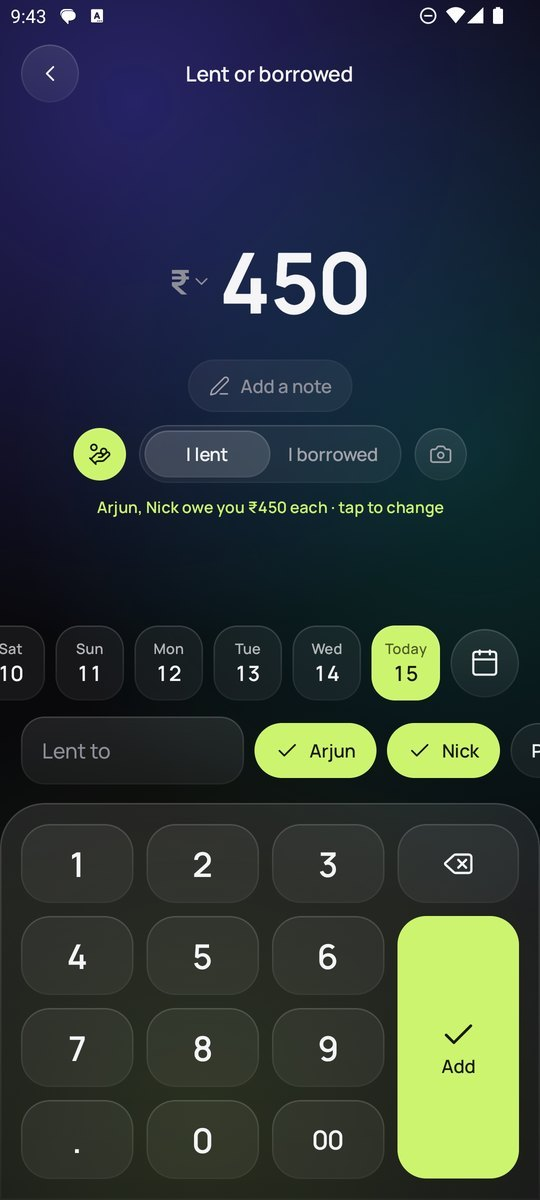
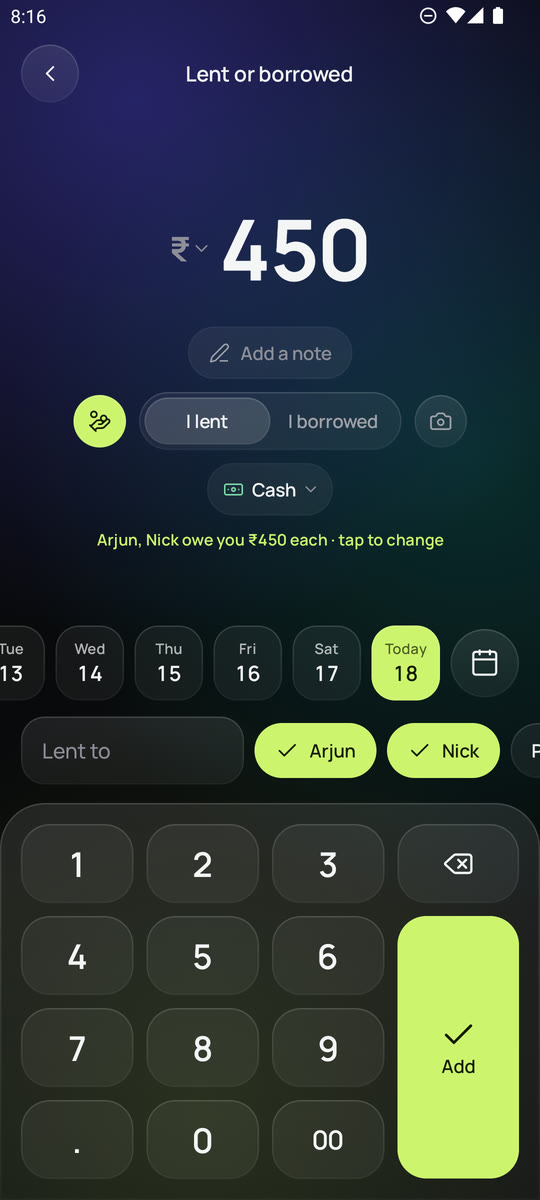
Website: screens follow the page's light or dark theme, in a highlights reel that plays by itself
New light and dark screenshots of the current app, the same screens and data in both. The reel shows one large slide at a time, moves on every 5 seconds with the active dot filling, pauses when you swipe or use the keys, plays only on screen and never with reduced motion, and has play, pause and replay.

diff --git a/website/index.html b/website/index.html
@@ -101,25 +101,74 @@
       </div>
     </section>
 
-    <section class="screens" id="screens" aria-labelledby="screens-title">
+    <section class="screens" id="screens" aria-labelledby="screens-title" aria-roledescription="carousel">
       <div class="section-head">
-        <h2 id="screens-title">Everything in four tabs</h2>
-        <div class="gallery-nav">
-          <button class="icon-btn" type="button" id="prev" aria-label="Previous screen"><svg viewBox="0 0 24 24" aria-hidden="true"><path d="m15 18-6-6 6-6"/></svg></button>
-          <button class="icon-btn" type="button" id="next" aria-label="Next screen"><svg viewBox="0 0 24 24" aria-hidden="true"><path d="m9 18 6-6-6-6"/></svg></button>
-        </div>
+        <h2 id="screens-title">Take a look around</h2>
       </div>
-      <ol class="gallery" id="gallery" tabindex="0" aria-label="Screens from the app">
-        <li><img src="assets/home.jpg" alt="Home: safe to spend today, total balance, detected payments and upcoming bills" loading="lazy" width="1080" height="2400"><p><b>Home.</b> Today's number, your balance across accounts, payments spotted for you and the bills coming up.</p></li>
-        <li><img src="assets/add.jpg" alt="Add: a keypad with categories and a date strip" loading="lazy" width="1080" height="2400"><p><b>Add.</b> The keypad opens first. Two taps and it's logged, on any day you forgot.</p></li>
-        <li><img src="assets/insights.jpg" alt="Insights: daily spending bars and comparison with last month" loading="lazy" width="1080" height="2400"><p><b>Insights.</b> Touch any day's bar, see where the month is heading and what changed since last month.</p></li>
-        <li><img src="assets/plan.jpg" alt="Plan: budget gauge, subscriptions and savings goals" loading="lazy" width="1080" height="2400"><p><b>Plan.</b> Your budget, the subscriptions it already knows about, and what to save each month for a goal.</p></li>
-        <li><img src="assets/calendar.jpg" alt="Activity calendar showing each day's spending" loading="lazy" width="1080" height="2400"><p><b>Activity.</b> A calendar of every day's spending. Tap a day to see or add to it.</p></li>
-        <li><img src="assets/filters.jpg" alt="Filters for account, category and tags" loading="lazy" width="1080" height="2400"><p><b>Search.</b> Find anything by note, amount, account, category or #tag, with a total.</p></li>
-        <li><img src="assets/lent-borrowed.jpg" alt="Lent or borrowed: an amount split between friends" loading="lazy" width="1080" height="2400"><p><b>Split a bill.</b> Your share is your spending; what each friend owes goes to Money owed.</p></li>
-        <li><img src="assets/money-owed.jpg" alt="Money owed: balances per person" loading="lazy" width="1080" height="2400"><p><b>Money owed.</b> Who owes you and whom you owe, paid back in full or a bit at a time.</p></li>
-        <li><img src="assets/assistant.jpg" alt="AI assistant chat proposing a change to confirm" loading="lazy" width="1080" height="2400"><p><b>Assistant.</b> Optional. Ask about your money or tell it what to log, with your own AI key.</p></li>
+      <ol class="track" id="track" tabindex="0" aria-label="Screens from the app">
+        <li class="slide" id="slide-0" aria-roledescription="slide" aria-label="1 of 9: Home">
+          <div class="slide-card glass">
+            <div class="slide-copy"><h3>Home</h3><p>Today's number first, then your balance across accounts, payments spotted for you and the bills coming up.</p></div>
+            <img class="shot" data-name="home" src="assets/home.jpg" alt="Home: safe to spend today, total balance, spending, income and upcoming bills" loading="eager" width="540" height="1200">
+          </div>
+        </li>
+        <li class="slide" id="slide-1" aria-roledescription="slide" aria-label="2 of 9: Add">
+          <div class="slide-card glass">
+            <div class="slide-copy"><h3>Add</h3><p>The keypad opens first. Two taps and a spend is logged, on any day you forgot.</p></div>
+            <img class="shot" data-name="add" src="assets/add.jpg" alt="Add: a keypad with categories and a date strip" loading="eager" width="540" height="1200">
+          </div>
+        </li>
+        <li class="slide" id="slide-2" aria-roledescription="slide" aria-label="3 of 9: Insights">
+          <div class="slide-card glass">
+            <div class="slide-copy"><h3>Insights</h3><p>Touch any day's bar, see where the month is heading and what changed since last month.</p></div>
+            <img class="shot" data-name="insights" src="assets/insights.jpg" alt="Insights: daily spending bars and comparison with last month" loading="lazy" width="540" height="1200">
+          </div>
+        </li>
+        <li class="slide" id="slide-3" aria-roledescription="slide" aria-label="4 of 9: Plan">
+          <div class="slide-card glass">
+            <div class="slide-copy"><h3>Plan</h3><p>Your budget, the subscriptions it already knows about, and what to save each month for a goal.</p></div>
+            <img class="shot" data-name="plan" src="assets/plan.jpg" alt="Plan: budget gauge, subscriptions and savings goals" loading="lazy" width="540" height="1200">
+          </div>
+        </li>
+        <li class="slide" id="slide-4" aria-roledescription="slide" aria-label="5 of 9: Activity">
+          <div class="slide-card glass">
+            <div class="slide-copy"><h3>Activity</h3><p>A calendar of every day's spending. Tap a day to see it, or to add something you forgot.</p></div>
+            <img class="shot" data-name="calendar" src="assets/calendar.jpg" alt="Activity calendar showing each day's spending" loading="lazy" width="540" height="1200">
+          </div>
+        </li>
+        <li class="slide" id="slide-5" aria-roledescription="slide" aria-label="6 of 9: Search and filters">
+          <div class="slide-card glass">
+            <div class="slide-copy"><h3>Search and filters</h3><p>Find anything by note, amount, account, category or #tag, with a total for what you found.</p></div>
+            <img class="shot" data-name="filters" src="assets/filters.jpg" alt="Filters for account, category and tags" loading="lazy" width="540" height="1200">
+          </div>
+        </li>
+        <li class="slide" id="slide-6" aria-roledescription="slide" aria-label="7 of 9: Split a bill">
+          <div class="slide-card glass">
+            <div class="slide-copy"><h3>Split a bill</h3><p>Your share is your spending. What each friend owes goes to Money owed, from the account you paid with.</p></div>
+            <img class="shot" data-name="lent-borrowed" src="assets/lent-borrowed.jpg" alt="Lent or borrowed: an amount split between friends" loading="lazy" width="540" height="1200">
+          </div>
+        </li>
+        <li class="slide" id="slide-7" aria-roledescription="slide" aria-label="8 of 9: Money owed">
+          <div class="slide-card glass">
+            <div class="slide-copy"><h3>Money owed</h3><p>Who owes you and whom you owe, paid back in full or a bit at a time.</p></div>
+            <img class="shot" data-name="money-owed" src="assets/money-owed.jpg" alt="Money owed: balances per person with Pay back" loading="lazy" width="540" height="1200">
+          </div>
+        </li>
+        <li class="slide" id="slide-8" aria-roledescription="slide" aria-label="9 of 9: Assistant">
+          <div class="slide-card glass">
+            <div class="slide-copy"><h3>Assistant</h3><p>Optional. Ask about your money or tell it what to log, with your own AI key. Nothing changes until you confirm.</p></div>
+            <img class="shot" data-name="assistant" src="assets/assistant.jpg" alt="The AI assistant" loading="lazy" width="540" height="1200">
+          </div>
+        </li>
       </ol>
+      <div class="player">
+        <div class="dots" id="dots" role="group" aria-label="Choose a screen"></div>
+        <button class="icon-btn play" id="play" type="button" aria-label="Pause">
+          <svg class="i-pause" viewBox="0 0 24 24" aria-hidden="true"><path d="M9 5v14M15 5v14"/></svg>
+          <svg class="i-play" viewBox="0 0 24 24" aria-hidden="true"><path d="M8 5.5v13l11-6.5z"/></svg>
+          <svg class="i-replay" viewBox="0 0 24 24" aria-hidden="true"><path d="M3 12a9 9 0 1 0 3-6.7L3 8"/><path d="M3 3v5h5"/></svg>
+        </button>
+      </div>
     </section>
 
     <section class="notice" aria-labelledby="notice-title">

diff --git a/website/app.js b/website/app.js
@@ -12,7 +12,13 @@
   const root = document.documentElement;
   const saved = (() => { try { return localStorage.getItem("theme"); } catch { return null; } })();
   const prefersLight = matchMedia("(prefers-color-scheme: light)");
-  const applyTheme = (t) => { root.dataset.theme = t; };
+  // The app's screens are shown in the same theme as the page.
+  const applyTheme = (t) => {
+    root.dataset.theme = t;
+    document.querySelectorAll("img.shot").forEach((img) => {
+      img.src = `assets/${t === "light" ? "light/" : ""}${img.dataset.name}.jpg`;
+    });
+  };
   applyTheme(saved || (prefersLight.matches ? "light" : "dark"));
   prefersLight.addEventListener("change", (e) => { if (!saved) applyTheme(e.matches ? "light" : "dark"); });
   $("#theme").addEventListener("click", () => {
@@ -139,15 +145,107 @@
   $("#budget").addEventListener("input", (e) => { state.budget = Number(e.target.value); render(); });
   render();
 
-  // ---- Screens gallery ----
-  const gallery = $("#gallery");
-  const step = () => (gallery.querySelector("li")?.getBoundingClientRect().width || 260) + 22;
-  $("#prev").addEventListener("click", () => gallery.scrollBy({ left: -step(), behavior: reduceMotion ? "auto" : "smooth" }));
-  $("#next").addEventListener("click", () => gallery.scrollBy({ left: step(), behavior: reduceMotion ? "auto" : "smooth" }));
-  gallery.addEventListener("keydown", (e) => {
-    if (e.key === "ArrowRight") { e.preventDefault(); $("#next").click(); }
-    if (e.key === "ArrowLeft") { e.preventDefault(); $("#prev").click(); }
+  // ---- Screens: a highlights reel that moves on by itself ----
+  const track = $("#track");
+  const slides = $$(".slide", track);
+  const dotsEl = $("#dots");
+  const play = $("#play");
+  const SLIDE_MS = 5000;
+  let current = 0;
+  let reel = reduceMotion ? "paused" : "playing"; // playing, paused or ended
+  let inView = false;
+  let programmatic = 0;
+
+  const dots = slides.map((slide, i) => {
+    const b = document.createElement("button");
+    b.type = "button";
+    b.className = "dot";
+    b.setAttribute("aria-label", `Show ${slide.querySelector("h3").textContent}`);
+    b.innerHTML = '<span class="fill"></span>';
+    b.addEventListener("click", () => { go(i); if (reel === "ended") setState("playing"); else restartTimer(); });
+    dotsEl.append(b);
+    return b;
   });
+
+  function mark(i) {
+    current = i;
+    slides.forEach((s, k) => s.classList.toggle("current", k === i));
+    dots.forEach((d, k) => { d.classList.toggle("active", k === i); d.toggleAttribute("aria-current", k === i); });
+    restartTimer();
+  }
+  function go(i, smooth = true) {
+    const slide = slides[i];
+    programmatic = Date.now();
+    track.scrollTo({ left: slide.offsetLeft - (track.clientWidth - slide.clientWidth) / 2, behavior: smooth && !reduceMotion ? "smooth" : "auto" });
+    mark(i);
+  }
+  // The active dot fills over SLIDE_MS while playing, on screen and the tab is in front; when it's full,
+  // the next slide comes in.
+  let elapsed = 0;
+  let last = 0;
+  function restartTimer() {
+    elapsed = 0;
+    paint();
+  }
+  function paint() {
+    dots.forEach((d, k) => {
+      const fill = d.firstChild;
+      fill.style.width = k !== current ? "0%" : reel === "playing" ? `${Math.min(100, (elapsed / SLIDE_MS) * 100)}%` : "100%";
+    });
+  }
+  function tick(t) {
+    const dt = last ? Math.min(100, t - last) : 0;
+    last = t;
+    if (reel === "playing" && inView && !document.hidden) {
+      elapsed += dt;
+      if (elapsed >= SLIDE_MS) {
+        if (current < slides.length - 1) go(current + 1);
+        else setState("ended");
+      }
+      paint();
+    }
+    requestAnimationFrame(tick);
+  }
+  requestAnimationFrame(tick);
+  function setState(next) {
+    reel = next;
+    play.dataset.state = next;
+    play.setAttribute("aria-label", next === "playing" ? "Pause" : next === "ended" ? "Play again" : "Play");
+    restartTimer();
+  }
+  play.addEventListener("click", () => {
+    if (reel === "playing") setState("paused");
+    else if (reel === "ended") { go(0); setState("playing"); }
+    else setState("playing");
+  });
+
+  // Swiping, scrolling or using the keys yourself pauses it; the slide nearest the middle becomes the current one.
+  const userStop = () => { if (reel === "playing") setState("paused"); };
+  ["pointerdown", "wheel", "touchstart"].forEach((e) => track.addEventListener(e, userStop, { passive: true }));
+  let settleTimer;
+  track.addEventListener("scroll", () => {
+    clearTimeout(settleTimer);
+    settleTimer = setTimeout(() => {
+      if (Date.now() - programmatic < 900) return;
+      const middle = track.scrollLeft + track.clientWidth / 2;
+      let best = 0;
+      slides.forEach((s, k) => { if (Math.abs(s.offsetLeft + s.clientWidth / 2 - middle) < Math.abs(slides[best].offsetLeft + slides[best].clientWidth / 2 - middle)) best = k; });
+      if (best !== current) mark(best);
+    }, 120);
+  }, { passive: true });
+  track.addEventListener("keydown", (e) => {
+    const d = e.key === "ArrowRight" ? 1 : e.key === "ArrowLeft" ? -1 : 0;
+    if (!d) return;
+    e.preventDefault();
+    userStop();
+    go(Math.max(0, Math.min(slides.length - 1, current + d)));
+  });
+  // Only plays while it's on screen.
+  new IntersectionObserver(([entry]) => { inView = entry.isIntersecting; restartTimer(); }, { threshold: 0.5 }).observe(track);
+  addEventListener("resize", () => go(current, false));
+
+  setState(reel);
+  requestAnimationFrame(() => go(0, false));
 
   // ---- What it notices: real message formats and what the app makes of them ----
   const messages = [

diff --git a/website/style.css b/website/style.css
@@ -233,22 +233,53 @@ input[type="range"] { width: 100%; accent-color: var(--accent); height: 28px; }
 .sum { font-size: var(--step--1); color: var(--text-2); line-height: 1.6; padding-top: 2px; }
 .sum b { color: var(--text); font-weight: 700; }
 
-/* Screens gallery */
-.gallery {
-  list-style: none; margin: 0 calc(-1 * var(--gutter)); padding: 4px var(--gutter) 24px;
-  display: grid; grid-auto-flow: column; grid-auto-columns: clamp(220px, 24vw, 290px); gap: 22px;
-  overflow-x: auto; scroll-snap-type: x mandatory; scroll-padding: 0 var(--gutter);
-  scrollbar-width: none; overscroll-behavior-x: contain;
+/* Screens: one large slide at a time, the next ones peeking in, moving on by itself like a highlights reel. */
+.screens { max-width: none !important; padding-left: 0 !important; padding-right: 0 !important; }
+.screens .section-head { max-width: 1200px; margin: 0 auto 28px; padding: 0 var(--gutter); }
+.track {
+  --slide: min(1000px, calc(100vw - 2 * var(--gutter) - 48px));
+  list-style: none; margin: 0; padding: 8px calc((100vw - var(--slide)) / 2) 8px;
+  display: grid; grid-auto-flow: column; grid-auto-columns: var(--slide); gap: 20px;
+  overflow-x: auto; scroll-snap-type: x mandatory; scrollbar-width: none; overscroll-behavior-x: contain;
 }
-.gallery::-webkit-scrollbar { display: none; }
-.gallery li { scroll-snap-align: start; }
-.gallery img {
-  width: 100%; height: auto; aspect-ratio: 9 / 20; object-fit: cover; border-radius: 26px;
-  box-shadow: var(--shadow), 0 0 0 1px var(--rim-top);
+.track::-webkit-scrollbar { display: none; }
+.track:focus-visible { outline-offset: -4px; }
+.track { user-select: none; -webkit-user-select: none; }
+.slide { scroll-snap-align: center; transition: opacity .5s ease, transform .5s ease; opacity: .45; transform: scale(.97); }
+.slide.current { opacity: 1; transform: none; }
+.slide-card {
+  height: clamp(460px, 62vw, 620px); border-radius: var(--radius-xl); overflow: hidden;
+  display: grid; grid-template-columns: minmax(0, 1fr) auto; align-items: end; gap: 24px;
+  padding: clamp(28px, 4vw, 48px) clamp(28px, 4vw, 56px) 0;
 }
-.gallery p { margin-top: 14px; color: var(--text-2); font-size: var(--step--1); line-height: 1.5; max-width: 30ch; }
-.gallery p b { color: var(--text); }
-.gallery-nav { display: flex; gap: 8px; }
+.slide-copy { align-self: start; max-width: 30ch; }
+.slide-copy h3 { font-size: var(--step-3); line-height: 1.05; letter-spacing: -0.035em; }
+.slide-copy p { margin-top: 14px; color: var(--text-2); font-size: var(--step-1); line-height: 1.45; }
+.shot {
+  width: clamp(220px, 26vw, 290px); height: auto; aspect-ratio: 540 / 1200;
+  border-radius: 30px 30px 0 0; box-shadow: var(--shadow), 0 0 0 1px var(--rim-top);
+  transform: translateY(8%); transition: transform .8s cubic-bezier(.2, .8, .2, 1);
+}
+.slide.current .shot { transform: translateY(4%); }
+
+.player { display: flex; justify-content: center; align-items: center; gap: 12px; margin-top: 26px; padding: 0 var(--gutter); }
+.dots {
+  display: flex; align-items: center; gap: 10px; padding: 0 18px; height: 50px; border-radius: 999px;
+  background: var(--glass-strong); box-shadow: inset 0 0 0 1px var(--rim-top);
+  backdrop-filter: blur(18px); -webkit-backdrop-filter: blur(18px);
+}
+.dot {
+  position: relative; width: 8px; height: 8px; padding: 0; border: 0; border-radius: 99px; cursor: pointer;
+  background: var(--text-3); opacity: .6; overflow: hidden; transition: width .35s ease, opacity .3s ease;
+}
+.dot::before { content: ""; position: absolute; inset: -12px -4px; }
+.dot:hover { opacity: 1; }
+.dot.active { width: 46px; opacity: 1; background: color-mix(in srgb, var(--text-3) 55%, transparent); }
+.dot .fill { position: absolute; inset: 0 auto 0 0; width: 0; background: var(--text); border-radius: inherit; }
+.play { width: 50px; height: 50px; }
+.play svg { display: none; }
+.play[data-state="playing"] .i-pause, .play[data-state="paused"] .i-play, .play[data-state="ended"] .i-replay { display: block; }
+.play .i-play { fill: currentColor; stroke: none; }
 
 /* Payments it notices */
 .notice { display: grid; grid-template-columns: minmax(0, 1fr) minmax(0, 1fr); gap: clamp(32px, 6vw, 72px); align-items: center; }
@@ -342,7 +373,10 @@ input[type="range"] { width: 100%; accent-color: var(--accent); height: 28px; }
   .ways li + li { border-top: 1px solid var(--glass-strong); }
   .private dl div { grid-template-columns: minmax(0, 1fr); gap: 4px; }
   .foot nav { margin-left: 0; }
-  .gallery { grid-auto-columns: 72vw; }
+  .slide-card { grid-template-columns: minmax(0, 1fr); align-items: start; justify-items: center; height: 640px; padding: 28px 24px 0; gap: 18px; }
+  .slide-copy { justify-self: start; }
+  .slide-copy p { font-size: var(--step-0); }
+  .shot { width: min(250px, 66vw); }
 }
 
 @media (prefers-reduced-motion: reduce) {
